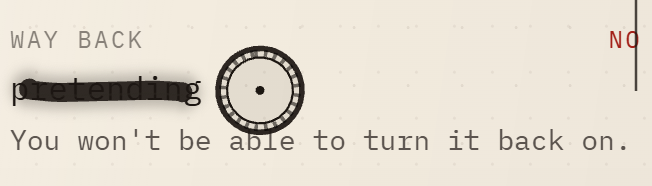
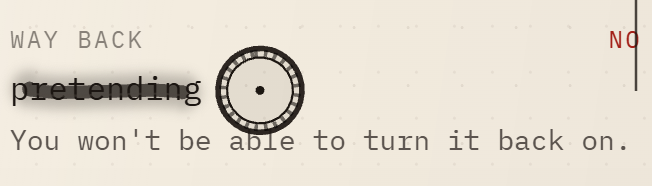
evidence(v1.5): inline gesture build evidence, live workflow for a V1.5 Preview, build smoke result

Changed region(s): [[0.0307, 0.4032, 0.3067, 0.5645]]

diff --git a/evidence/LE-RECU-V1-5-INLINE-GESTURE-2026-10-16.md b/evidence/LE-RECU-V1-5-INLINE-GESTURE-2026-10-16.md
@@ -1,0 +1,85 @@
+# LE REÇU V1.5 — One continuous gesture (Rive inline ink) — build evidence
+
+Branch `design/rive-inline-gesture-v1-5`, base `27482de` (V1.4). Contract: `product/LE-RECU-V1-5-ONE-CONTINUOUS-GESTURE.md`.
+Nothing merged, PR #2 untouched, production and Neon untouched, **no Vercel Preview of this SHA exists yet** (see BLOCKED).
+Evidence classes: **VISUAL** (Rive CLI headless frame), **LOCAL** (real browser, real server functions, real SQL on in-memory PGlite, real DOM geometry and real canvas pixels), **LIVE** (deployed Preview on Neon staging, *none produced*).
+
+## What changed for the person
+
+The refusal is no longer a decorative strip under the list. Tapping a cost draws a red dry-brush line **through the measured text of that very row** (one segment per real text line, up to three), the seal lands at the end of that line after — and only after — the server confirmed `createDuel`, and the second person's answer prints a black second impression on the **same sheet**: on the same row when both refused the same cost (registered overprint), on a different row with a thin tension line on the right margin when they did not. Both browsers show the creator's row in red and the responder's in black, in canonical creation order.
+
+## Verdict matrix
+
+| ID | Contract scenario | Status | Class | Proof |
+| --- | --- | --- | --- | --- |
+| P1 | Tap cost #3: ink on the text of row #3, none elsewhere, no POST | PROVEN | LOCAL + VISUAL | segment x/width equal the real text line box (±1.5 px); 2 357 red px on the chosen row, 0 on the other four; POST counter unchanged |
+| P2 | Slow server: provisional mark stays, no seal before the receipt | PROVEN | LOCAL | route delayed 2.6 s; phases `pending>sealed>waiting`; no seal element while pending; positive control: Seal POSTs |
+| P3 | Seal fails | PROVEN | LOCAL | aborted POST → `failed`, error shown, mark stays, no seal; retry reaches `waiting` |
+| P4 | Seal succeeds | PROVEN | LOCAL | seal centre right of the struck text and inside the chosen row; valid `?duel=` invite |
+| P5 | Blind guest | PROVEN | LOCAL | no `.ink-*`, seal, duplex block, struck cost; 0 red pixels in all five rows; empty geometry |
+| P6 | Guest picks another row | PROVEN | LOCAL | `reveal` in both browsers, `first=creator row`, `second=guest row`, connector between the real rows |
+| P7 | Both pick the same row | PROVEN | LOCAL | rows 1/1 and 4/4: no connector, seals coincide, both viewers |
+| P8 | Reload / second browser / no ghost | PROVEN (scoped) | LOCAL | fresh contexts start `idle`; a reload into a pending duel does not replay the stamp (unit test); no double POST observed |
+| P9 | Keyboard, reduced motion, WebGL2 missing, Rive file missing | PROVEN | LOCAL | SVG twin draws the same ink at the same measured coordinates; flow completes in each mode. **iPhone / Android: BLOCKED** |
+| P10 | 320 / 390 / 430 / 1440 / 1920, FR + EN | PROVEN | LOCAL + VISUAL | 26 cases (every row at 320 and 1440), no overflow, row moves < 90 px on selection, no forced scroll; a label forced to wrap at 320 gets one stroke per line |
+| P11 | Poster export | PROVEN | LOCAL | FR and EN posters are real PNG 1080×1350; canonical first/second identical for both |
+| P12 | Participant erase | PROVEN | LOCAL | erase confirmed, other browser sees `unavailable`; outsider denied |
+| — | Unmodified `scripts/live-beta-e2e.mjs` | PROVEN | LOCAL | run from a scratch copy with the URL guard bypassed, against the local PGlite server (guard in the repo is untouched) |
+| — | Production build serves the overlay | PROVEN | LOCAL | clean worktree of code SHA `79d4ab7`, real `npm ci`, `tsc`, 43+8 product tests, `rive:check`, `vite build`, `vite preview` smoke (no database) |
+| — | **LIVE staging for this SHA (P2–P8, P11, P12 on Neon)** | **BLOCKED** | — | no Preview exists; the session's Vercel CLI is signed in as `bfaadil-a11y`, the project `le-recu-invite-beta` lives in scope `faadil1s-projects` |
+| — | Real devices, screen reader, sustained use | **BLOCKED / UNKNOWN** | — | not available here |
+
+Release decision is unchanged: **BLOCKED**. `product/LIVE-PRODUCT-REALITY.json` is unchanged; every gate keeps its status (the 20 production-required gates stay BLOCKED; `live-core-loop-staging` stays PROVEN only for its original V1.3 SHA, V1.4's Rive/Neon proof only for `704be0c`). V1.5 must earn its own SHA on Neon staging.
+
+## Two compiled directions (both Rive CLI frames, same view model and state machine)
+
+| | A — dry brush (**selected**) | B — marker |
+| --- | --- | --- |
+| Strike | irregular red dry-brush stroke 9.5 px with an ivory dry streak and a wet bloom, trimmed along the measured line | 20 px translucent multiply band with hard edges |
+| Seal | double-ring red seal with ticks, pressure wave | solid disc with knocked-out rings |
+| Second impression | thinner, translucent black overprint (multiply) | multiplied black bar |
+| Verdict | the text under the line stays legible; reads as a hand refusing a price | strong and graphic, but it hides the cost it is meant to refuse, against "the five costs stay intelligible" |
+
+Frames: `evidence/rive-v1-5/directions/direction-{dry,marker}-contact-sheet.png` (CLI frames use grey bars as a mock row, labelled `MOCK` in the scene; real-text alignment is proven in the browser E2E, not in these frames). Switch: `node rive/le-recu-paper/tools/gen-scene.mjs marker rive/le-recu-paper` + `npm run rive:build`.
+
+## Architecture
+
+- **Server and React stay authoritative.** `src/lib/rive-paper-contract.ts` is still the single adapter (`experiencePhase()` + in-flight action + visible error → phase). New in V1.5: pure geometry (`strikeSegments`, `sealPoint`, `buildGeometry`), `inkRows` (canonical first/second, never "me/them"; before a verified reveal a viewer only wears their own ink), `twinVisibility`.
[1 lines of base64/hex data omitted]
+- **One overlay, not five canvases.** `RiveInkOverlay` sits over the cost list (`position:absolute; inset:0; pointer-events:none`), measures `Range.getClientRects()` of the chosen label(s) on every row change, locale change, resize, font load, and writes numbers; the canvas is laid out to its CSS size (`Fit.Layout`), so scene units are CSS pixels at any device pixel ratio. Only changed values are written, otherwise the state machine re-enters and replays its state.
+- **Fallback with the same truth.** The SVG twin uses the same measured geometry and the same visibility rules (`twinVisibility`) and covers loading, reduced motion, no WebGL2, load error and render crash. The CSS `line-through` is hidden because the overlay always draws the strike.
+- **No forced scroll.** V1.4's `scrollIntoView` to a stage is gone.
+- **Copy truth:** a local mark says `À SCELLER` / `READY TO SEAL` with "provisional: nothing is saved until you seal"; `SEND IT` no longer appears before the seal, `EN ATTENTE` / `WAITING` after it.
+- **Desktop ≥ 1100 px:** an authored three-column composition (quiet sticky statement · the sheet at 560–700 px with larger cost text · sticky next action) instead of a phone-width column in a void. Frames: `evidence/rive-v1-5/browser-frames/13-layout-*.png`..
+- Poster generation, SQL schema, permissions and every gate file are untouched.
+
+## Results
+
+```text
+rive rive/le-recu-paper --verify     0 errors, 0 warnings          rive inspect: problems []
+npm run rive:build / rive:check      ok  c5b891e7…f3a5  (14 043 bytes, 0 scripts)
+npx tsc --noEmit                     exit 0
+npm run test:product                 43 pass / 0 fail   (contract tests: 17, incl. exhaustive 6 480 states)
+npm test                             71 pass / 0 fail
+npx eslint (new/changed components)  clean
+RIVE_E2E_URL=http://127.0.0.1:8080/ node scripts/rive-paper-e2e.mjs   24/24 PASS (fresh dev server, PGlite)
+unmodified live-beta-e2e.mjs on the local server (scratch copy, guard bypassed)   PASS
+vite build (clean worktree, 79d4ab7)  ok; assets: .riv, 2 wasm, lazy chunk; build smoke 3/3
+```
+
+Files: `evidence/rive-v1-5/{directions,rive-cli-frames,browser-frames}/`, `rive-paper-e2e-result.json`, `rive-paper-build-smoke-result.json`.
+
+## Findings and limits
+
+- The first E2E pass was **false-green**: the old CSS strike was drawing the row, not Rive. Disabling it exposed that the canvas drew at 2× on a DPR-2 screen (`layoutScaleFactor` must stay 1) and replayed on every re-write of an unchanged phase. Both fixed; the pixel assertions now read the real canvas.
+- Rive pauses off-screen canvases. A reveal that happens while the rows are scrolled out of view animates when they return (the product shows the verdict text regardless); the harness therefore scrolls a row into view before judging pixels. This is a behaviour to keep in mind on a real phone.
+- When both refuse the same row the black overprint multiplies the red on purpose, so less pure red remains (threshold lowered for that case only); the text stays readable because the second impression is thin and translucent.
+- Vite dev server degraded after many PGlite duels (timeouts, not product failures); a fresh server restored 24/24. The harness records the real server's outcome only.
+- `scripts/rive-paper-live-smoke.mjs`, `rive-paper-build-smoke.mjs` and a new manual workflow `.github/workflows/live-rive-v1-5-preview.yml` (input: Preview URL) are ready; none has run against a deployed V1.5.
+- `npm run build` still fails on Windows at `spawn vite ENOENT` in `scripts/with-app-env.mjs` (pre-existing); `vite build` was run directly.
+
+## To unblock LIVE
+
+1. Deploy this SHA to the existing `le-recu-invite-beta` Preview in scope `faadil1s-projects` with the Preview-only Neon staging `DATABASE_URL` (needs the owner's Vercel login, which this session does not have).
+2. Run the `live-rive-v1-5-preview` workflow with that URL (hosted smoke + unmodified `live-beta-e2e.mjs`), then add inline-row assertions P2–P8 on the hosted build.
+3. Real iPhone Safari and Android Chrome pass; screen reader pass.
